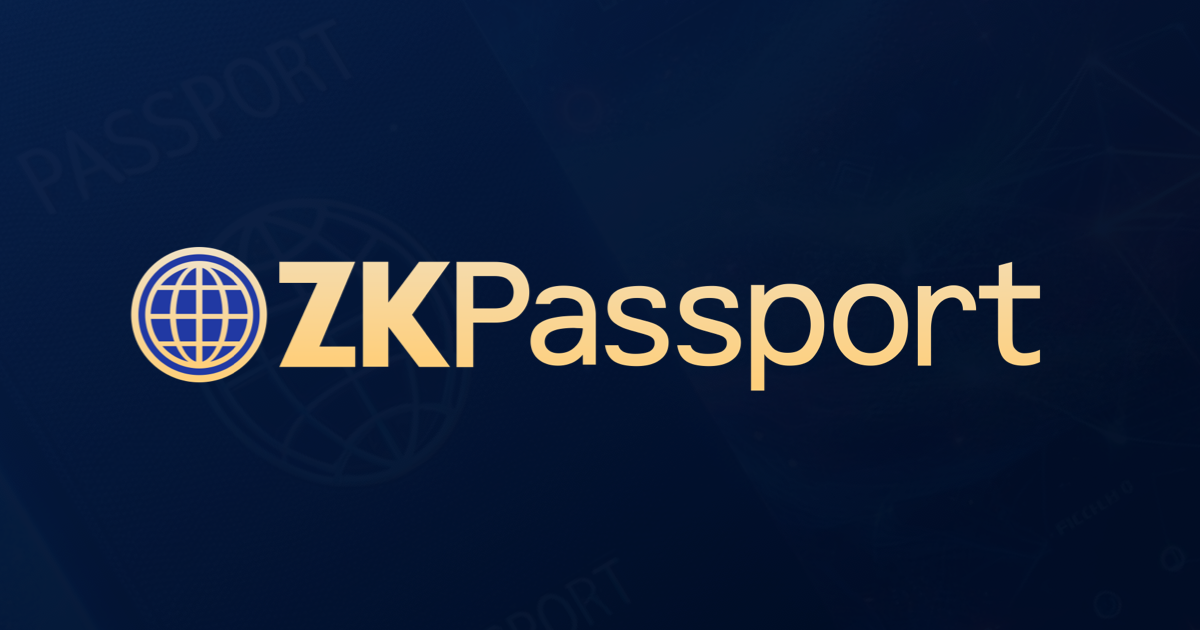
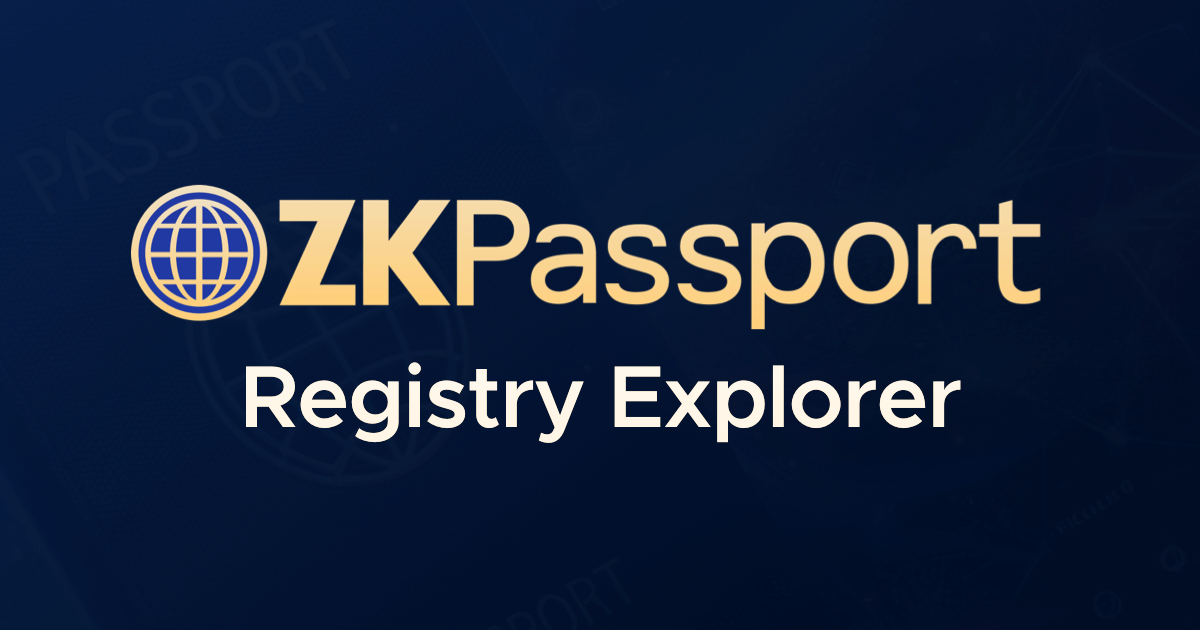
Add opengraph image and metadata to registry explorer (#10)

Changed region(s): [[0.0925, 0.2714, 0.8633, 0.7238]]

diff --git a/packages/registry-explorer/app/layout.tsx b/packages/registry-explorer/app/layout.tsx
@@ -24,11 +24,33 @@ const geistMono = localFont({
   weight: "100 900",
 })
 
+const title = "ZKPassport Registry Explorer"
+const description = "Explore the ZKPassport certificate and circuit registries"
+const url = "https://registry.zkpassport.id"
+const ogimage = "/og.png"
+const sitename = "registry.zkpassport.id"
+
 export const metadata: Metadata = {
-  title: "ZKPassport Registry Explorer",
-  description: "Explore the ZKPassport certificate and circuit registries",
+  metadataBase: new URL(url),
+  title,
+  description,
   icons: {
     icon: "/favicon.png",
+  },
+  openGraph: {
+    images: [ogimage],
+    title,
+    description,
+    url: url,
+    siteName: sitename,
+    locale: "en_US",
+    type: "website",
+  },
+  twitter: {
+    card: "summary_large_image",
+    images: [ogimage],
+    title,
+    description,
   },
 }
 
